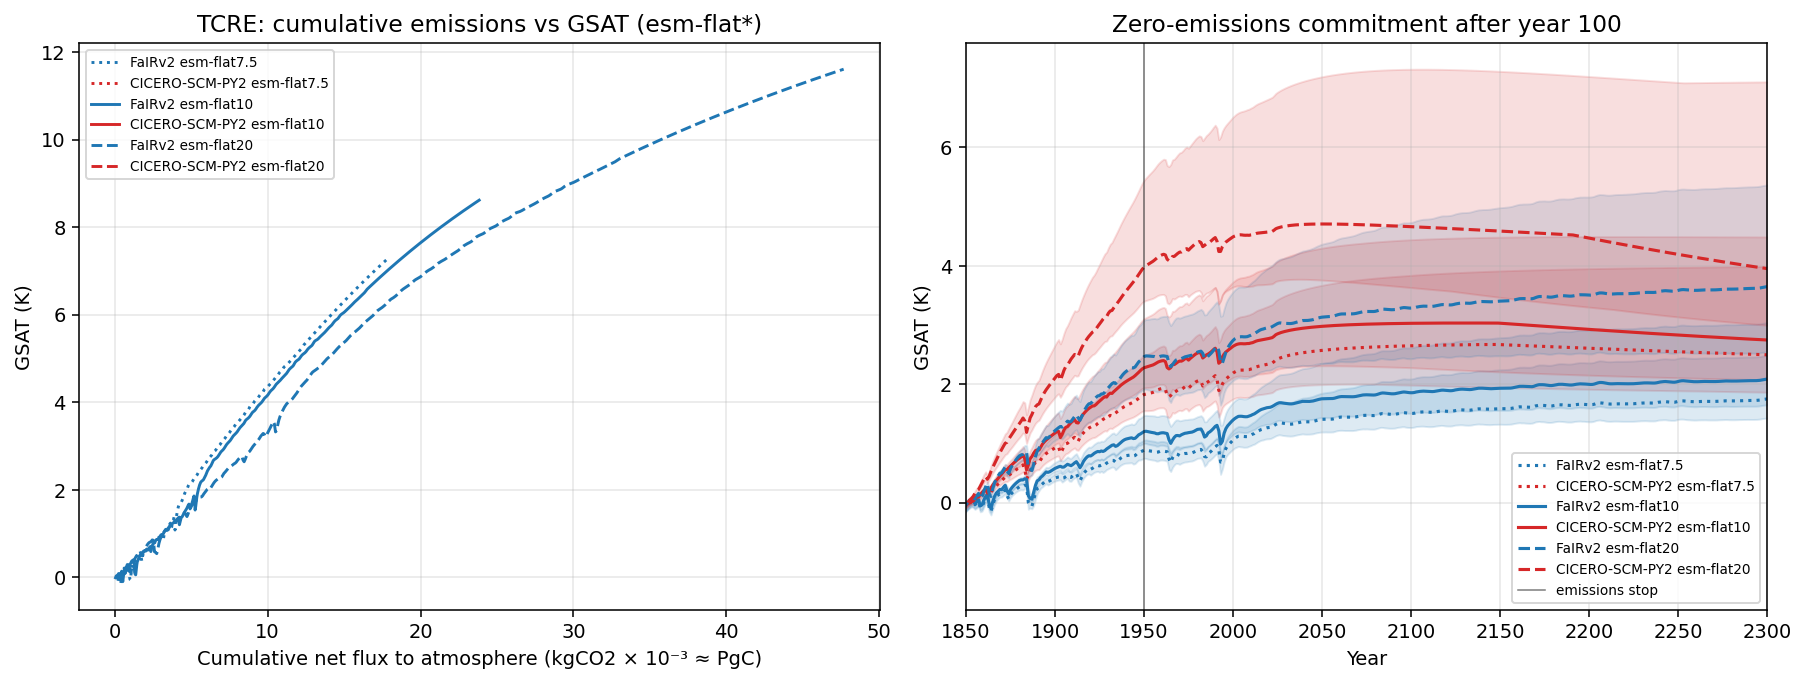
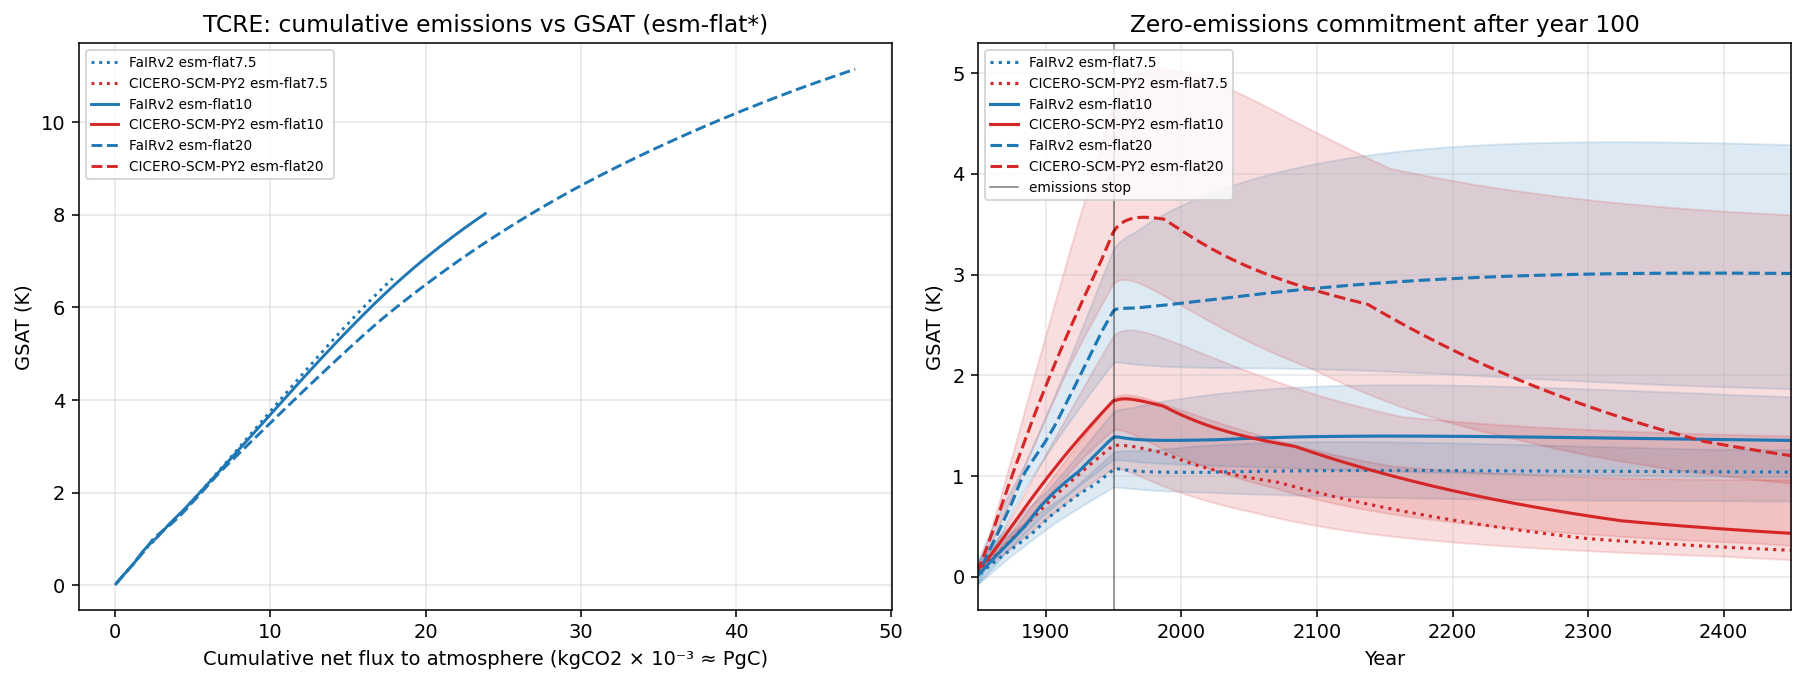
Notebook polish: drop OHC rebaseline, widen ZEC xlim, regenerate flat-family
Consolidates two integration commits (the notebook slice of 92d7dd6
plus ff8d6ee) into one PR-reviewable unit.

The OHC rebaseline (to 1971 = 0) was reverted: with the FaIRv2
non-CO2 emissions fix and the CICEROSCMPY2 emstart/sunvolc/natemis
fixes landing on their respective branches, both adapters now
produce OHC trajectories that are directly comparable against the
IGCC 1971-2020 constraint without rebaselining. Keeping the raw
output simplifies downstream constraint comparison and matches
Marit's reference workflow.

ZEC x-axis widened to 2450 to make the long-tail trajectory
visible (the post-cessation drift in CICERO at +0.5 to 1.0 K is
only obvious past ~year 200).

Flat-family figure regenerated against the cache produced after
the FaIRv2 and CICEROSCMPY2 idealised fixes.

diff --git a/notebooks/compare_rcmip3.py b/notebooks/compare_rcmip3.py
@@ -398,7 +398,7 @@ def plot_flat_family():
                   label=f"{model} {base}")
     ax_zec.axvline(1850 + 100, color="black", lw=0.8, linestyle="-",
                    alpha=0.5, label="emissions stop")
-    ax_zec.set_xlim(1850, 2300)
+    ax_zec.set_xlim(1850, 2450)
     ax_zec.set_xlabel("Year")
     ax_zec.set_ylabel("GSAT (K)")
     ax_zec.set_title("Zero-emissions commitment after year 100")
